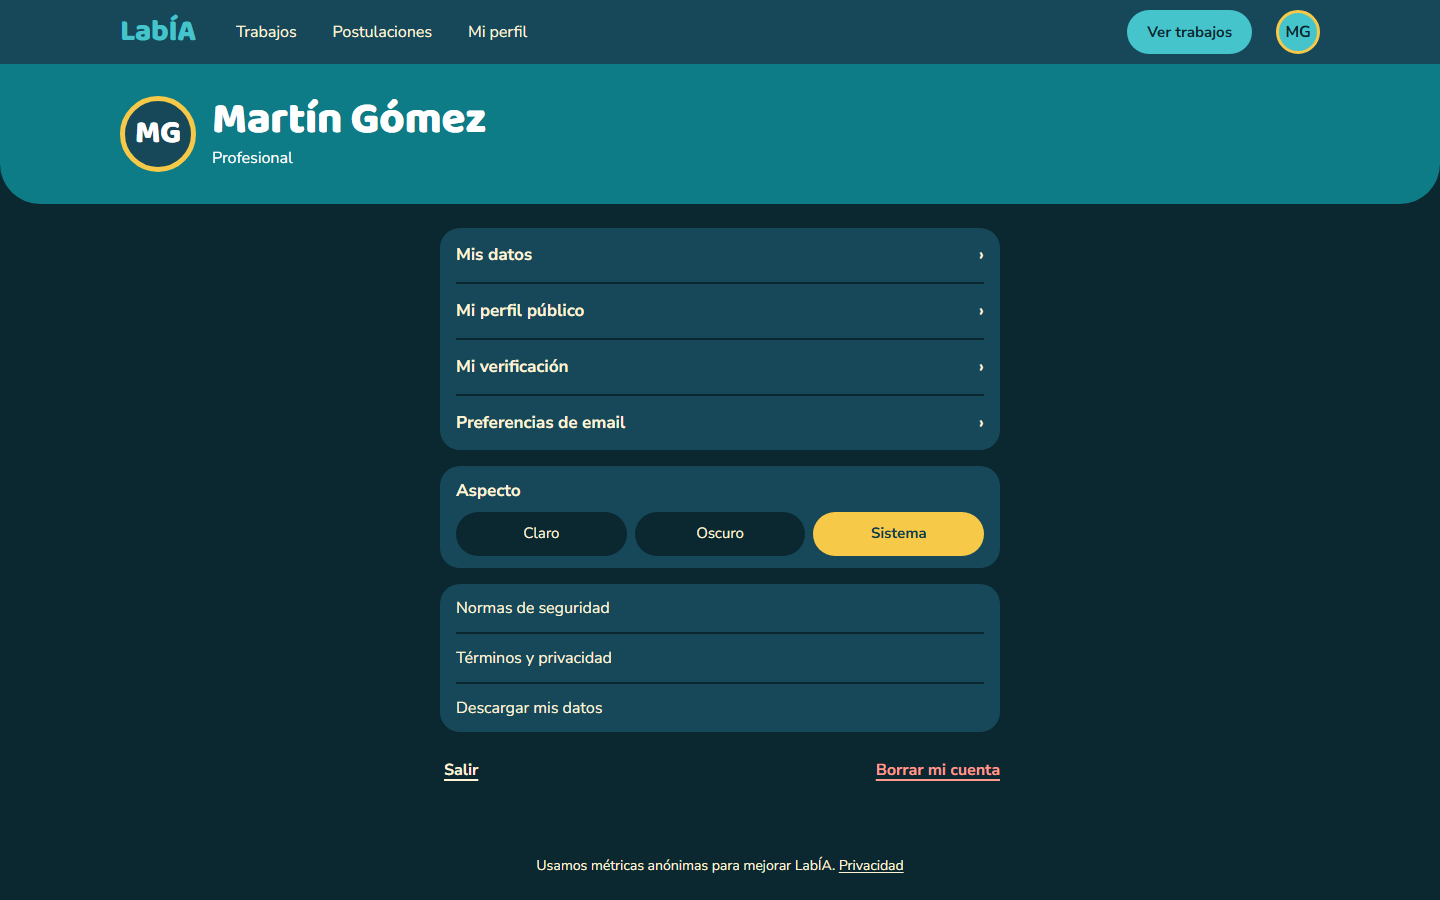
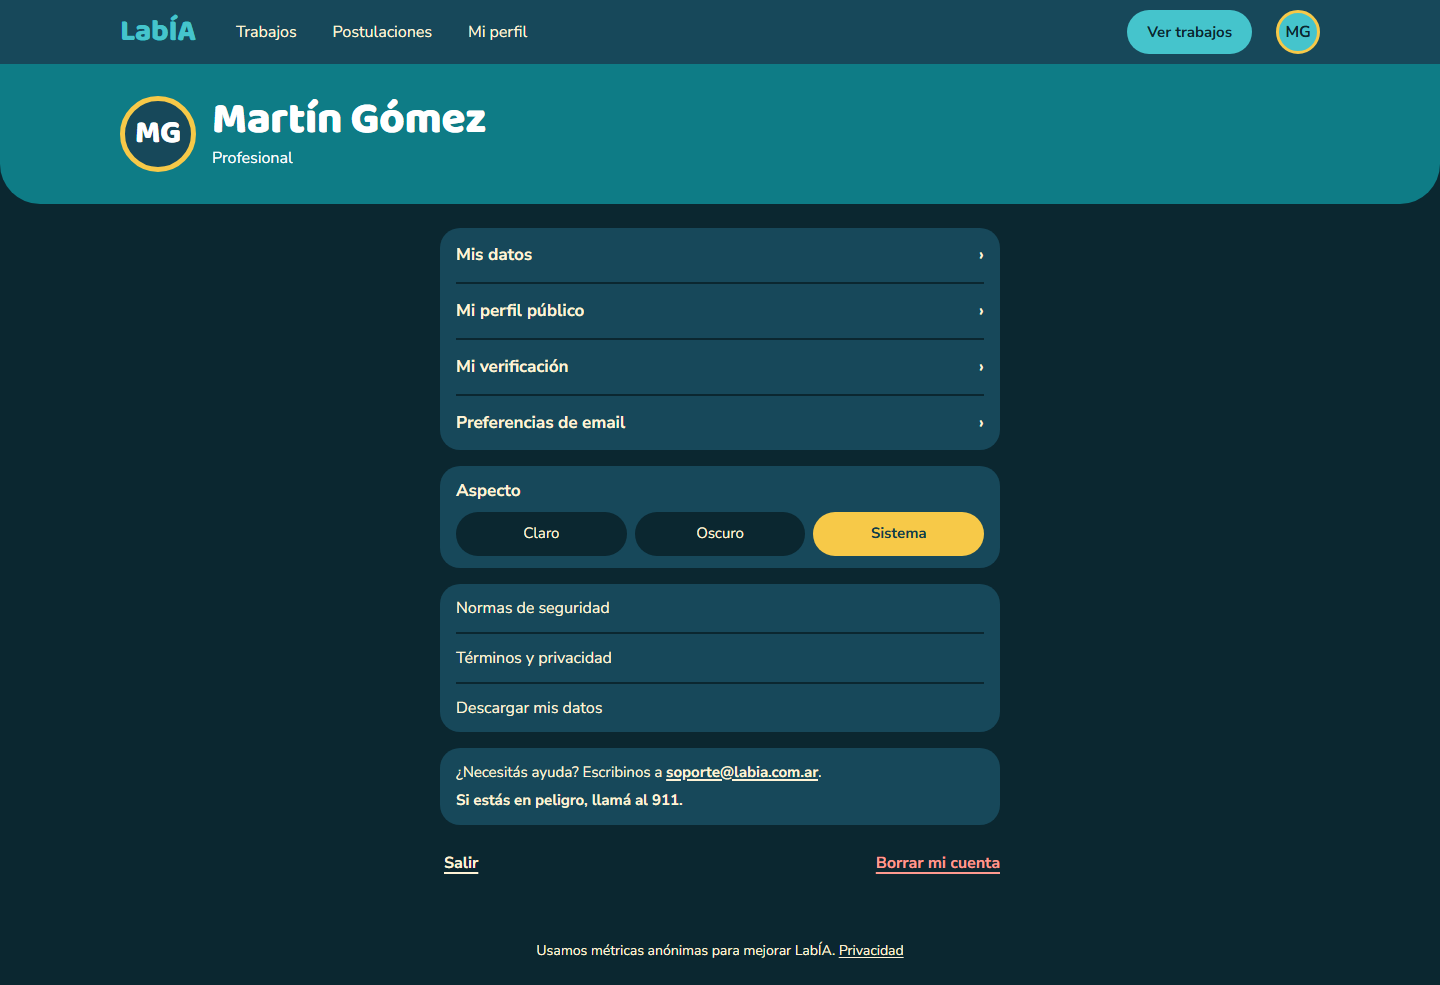
LAB-79: restaurar bloque Ayuda (soporte + 911) en /cuenta y capturas de verificación profesional

Changed region(s): [[0.0, 0.0, 1.0, 0.9022], [0.375, 0.9333, 0.625, 0.9956]]

diff --git a/src/app/(app)/cuenta/page.tsx b/src/app/(app)/cuenta/page.tsx
@@ -2,7 +2,7 @@ import type { Metadata } from "next";
 import Link from "next/link";
 
 import { BotonSalir } from "@/components/auth/BotonSalir";
-import { FilaEnlace, GrupoCuenta } from "@/components/cuenta/FilaCuenta";
+import { FilaEnlace, FilaLibre, GrupoCuenta } from "@/components/cuenta/FilaCuenta";
 import { FilasProfesional } from "@/components/cuenta/FilasProfesional";
 import { SelectorTema } from "@/components/SelectorTema";
 import { Avatar } from "@/components/ui/Avatar";
@@ -36,6 +36,7 @@ export default async function Cuenta() {
   if (!sesion) return null;
   const esProfesional = sesion.rol === "profesional";
   const { barrio, foto } = await datosDeEncabezado(sesion.usuario.id);
+  const soporte = process.env.EMAIL_SOPORTE || null;
   const resumen = esProfesional
     ? resumenBannerVerificacion(await obtenerMisVerificaciones())
     : null;
@@ -100,6 +101,29 @@ export default async function Cuenta() {
           <FilaEnlace href="/api/cuenta/datos" descarga compacta conFlecha={false}>
             Descargar mis datos
           </FilaEnlace>
+        </GrupoCuenta>
+
+        <GrupoCuenta etiqueta="Ayuda" como="section">
+          <FilaLibre className="text-[15px] leading-snug text-texto">
+            <p>
+              ¿Necesitás ayuda?{" "}
+              {soporte ? (
+                <>
+                  Escribinos a{" "}
+                  <a
+                    href={`mailto:${soporte}`}
+                    className="font-bold text-texto underline decoration-2 underline-offset-2"
+                  >
+                    {soporte}
+                  </a>
+                  .
+                </>
+              ) : (
+                "Escribinos por mail a soporte."
+              )}
+            </p>
+            <p className="mt-2 font-bold">Si estás en peligro, llamá al 911.</p>
+          </FilaLibre>
         </GrupoCuenta>
 
         {!esProfesional ? (

diff --git a/src/components/cuenta/FilaCuenta.tsx b/src/components/cuenta/FilaCuenta.tsx
@@ -4,11 +4,20 @@ import type { ReactNode } from "react";
 import { cn } from "@/lib/cn";
 
 /** Grupo de filas de ajustes en una tarjeta blanca con divisores de color fondo. */
-export function GrupoCuenta({ etiqueta, children }: { etiqueta: string; children: ReactNode }) {
+export function GrupoCuenta({
+  etiqueta,
+  children,
+  como = "nav",
+}: {
+  etiqueta: string;
+  children: ReactNode;
+  como?: "nav" | "section";
+}) {
+  const Contenedor = como;
   return (
-    <nav aria-label={etiqueta} className="rounded-[20px] bg-superficie px-4">
+    <Contenedor aria-label={etiqueta} className="rounded-[20px] bg-superficie px-4">
       <ul className="divide-y-2 divide-fondo">{children}</ul>
-    </nav>
+    </Contenedor>
   );
 }
 

diff --git a/src/app/(app)/cuenta/verificacion/page.tsx b/src/app/(app)/cuenta/verificacion/page.tsx
@@ -1,6 +1,7 @@
 import { ArrowLeft } from "lucide-react";
 import type { Metadata } from "next";
 import Link from "next/link";
+import { connection } from "next/server";
 
 import { DocumentosCuenta } from "@/components/cuenta/DocumentosCuenta";
 import { Boton } from "@/components/ui/Boton";
@@ -11,6 +12,7 @@ export const metadata: Metadata = { title: "Mi verificación · LabÍA" };
 
 /** Volver a subir documentos de verificación (LAB-19). Solo para profesionales. */
 export default async function Verificacion() {
+  await connection();
   const { sesion, rol, borrador, verificaciones } = await cargarDatosRegistro();
 
   return (

diff --git a/tests/e2e/cuenta.spec.ts b/tests/e2e/cuenta.spec.ts
@@ -33,6 +33,8 @@ test.describe("mi cuenta (cliente)", () => {
       "href",
       "/terminos",
     );
+    await expect(page.getByText(/¿Necesitás ayuda\?/)).toBeVisible();
+    await expect(page.getByText("Si estás en peligro, llamá al 911.")).toBeVisible();
     await expect(page.getByText("¿Ofrecés un oficio?")).toBeVisible();
     await expect(page.getByRole("link", { name: "Descargar mis datos" })).toHaveAttribute(
       "href",
